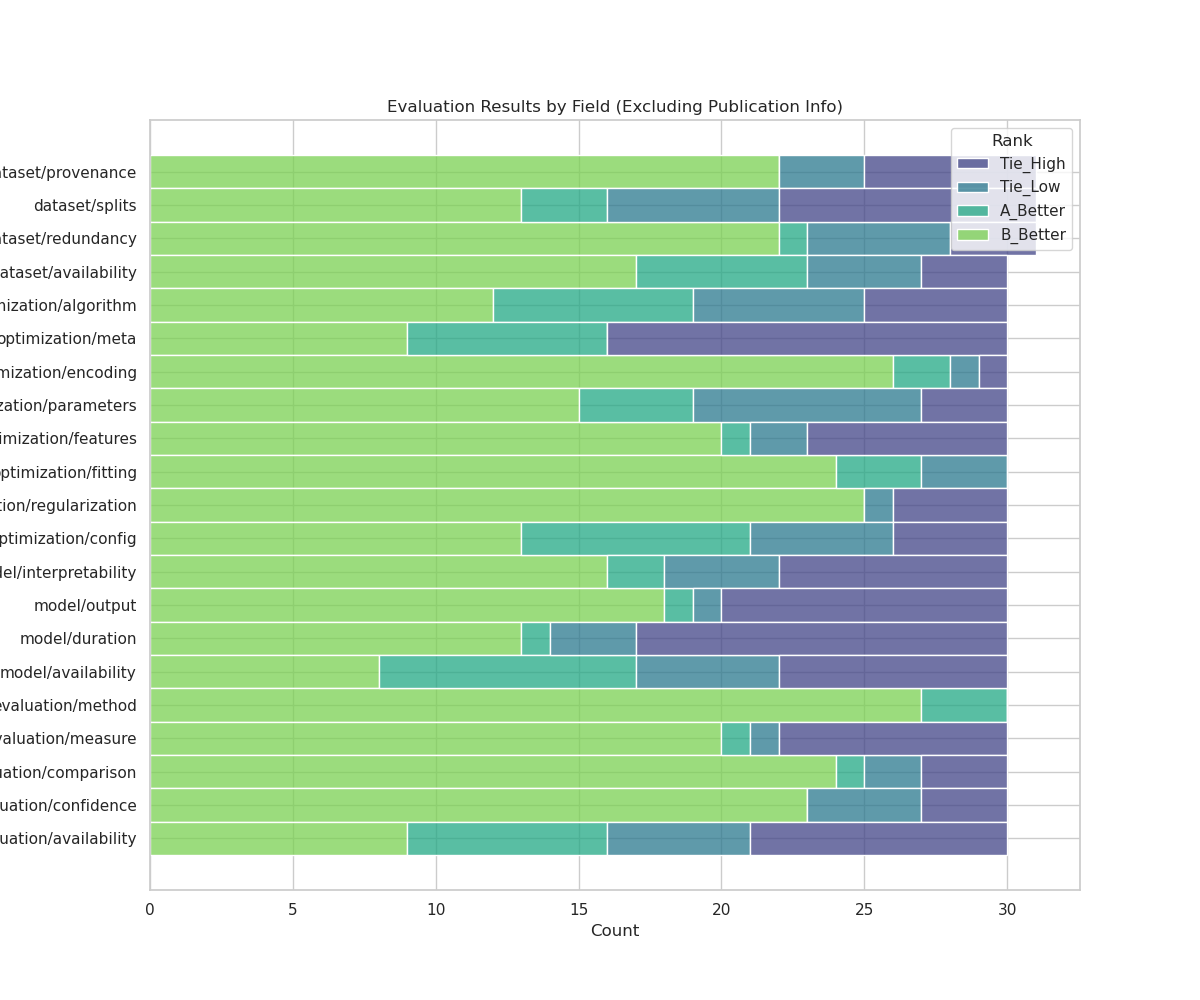
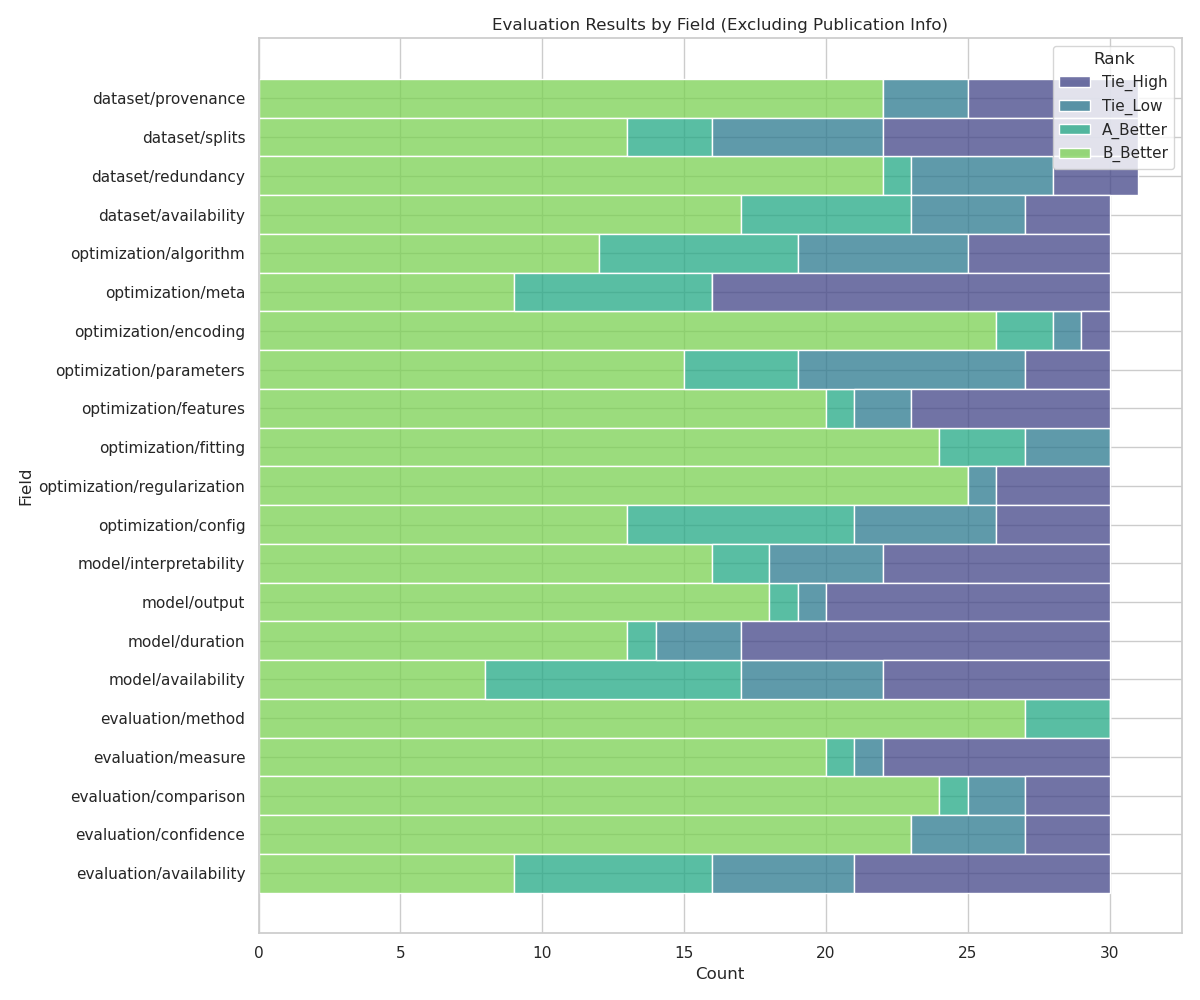
Graphing updates

diff --git a/Human_30_Copilot_vs_Human_Evaluations_Interface/generate_evaluation_analysis_plots.py b/Human_30_Copilot_vs_Human_Evaluations_Interface/generate_evaluation_analysis_plots.py
@@ -118,6 +118,7 @@ def plot_performance_by_field(df):
     plt.title('Evaluation Results by Field (Excluding Publication Info)')
     plt.xlabel('Count')
     
+    plt.tight_layout()
     filepath = os.path.join(PLOTS_DIR, '03_Performance_By_Field_Stacked.png')
     plt.savefig(filepath)
     plt.close()
@@ -142,6 +143,7 @@ def plot_copilot_win_rate_per_field(df):
     plt.title('Copilot Win Rate by Field (%) (Excluding Publication Info)')
     plt.xlabel('Win Rate (%)')
     
+    plt.tight_layout()
     filepath = os.path.join(PLOTS_DIR, '04_Copilot_Win_Rate_By_Field.png')
     plt.savefig(filepath)
     plt.close()
